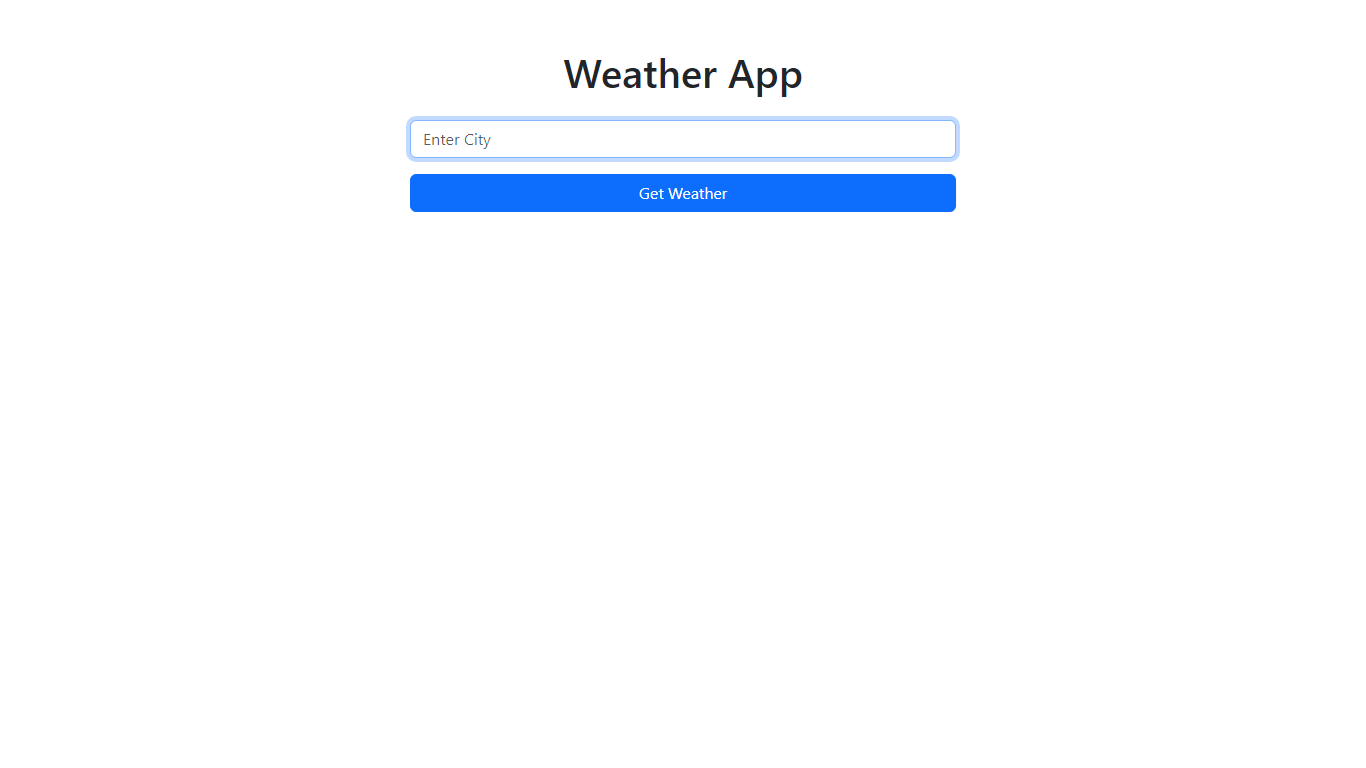
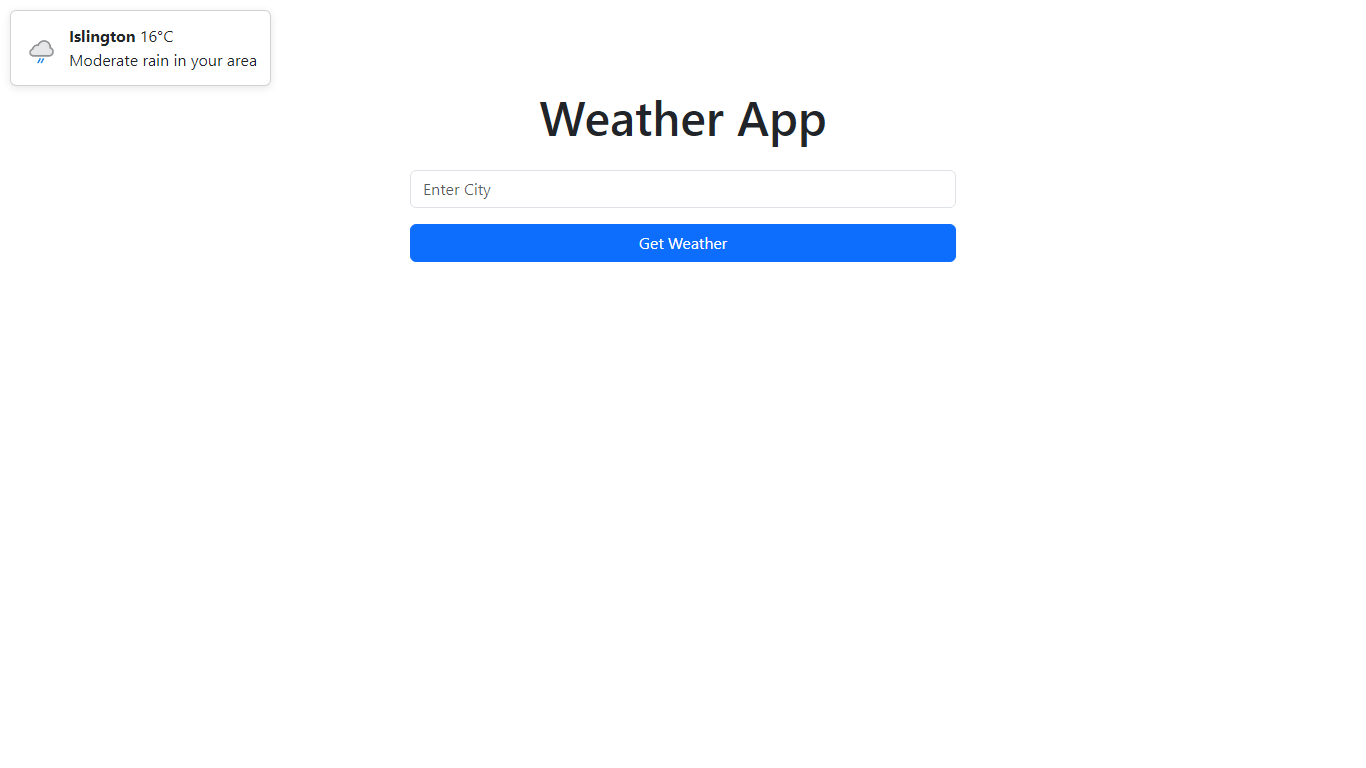
polishing the code

Changed region(s): [[0.2767, 0.0625, 0.7072, 0.3438], [0.0, 0.0312, 0.1845, 0.0938]]

diff --git a/src/App.js b/src/App.js
@@ -18,7 +18,7 @@ function App() {
   const API_KEY = process.env.REACT_APP_WEATHER_API_KEY;
 
   const focus = () => inputRef.current.focus();
-  //
+
   const { coords, isGeolocationAvailable, isGeolocationEnabled } =
     useGeolocated({
       positionOptions: {

diff --git a/src/App.css b/src/App.css
@@ -18,7 +18,7 @@
   font-size: 48px;
 }
 
-/* Media query for mobile screens */
+/* Media query for smaller screens */
 @media (max-width: 720px) {
   .local-weather-container {
     position: static;

diff --git a/README.md b/README.md
@@ -6,7 +6,7 @@
 
 ## Description
 
-This React application fetches and displays the current weather for a given city using the WeatherAPI. It provides a user-friendly interface for entering a city name and retrieving weather information, including temperature, humidity, and weather conditions.
+This React application fetches and displays the current weather for a given city using the WeatherAPI. It also utilizes geolocation to automatically fetch and display the weather for the user's current location, if permission is granted. The application provides a user-friendly interface for entering a city name and retrieving weather information, including temperature, humidity, and weather conditions.
 
 ## Table of Contents
 
@@ -44,8 +44,9 @@ Here's a preview of the application:
 ## Resources
 
 - [WeatherAPI](https://www.weatherapi.com/) for fetching current weather data.
-- [React Bootstrap](https://react-bootstrap.github.io/) for styling and UI components.
+- [React Geolocated](https://www.npmjs.com/package/react-geolocated) for obtaining the user's current location.
 - [Axios](https://axios-http.com/) for making HTTP requests.
+- [React Bootstrap](https://react-bootstrap.github.io/) for styling and UI components.
 
 ## Usage
 
